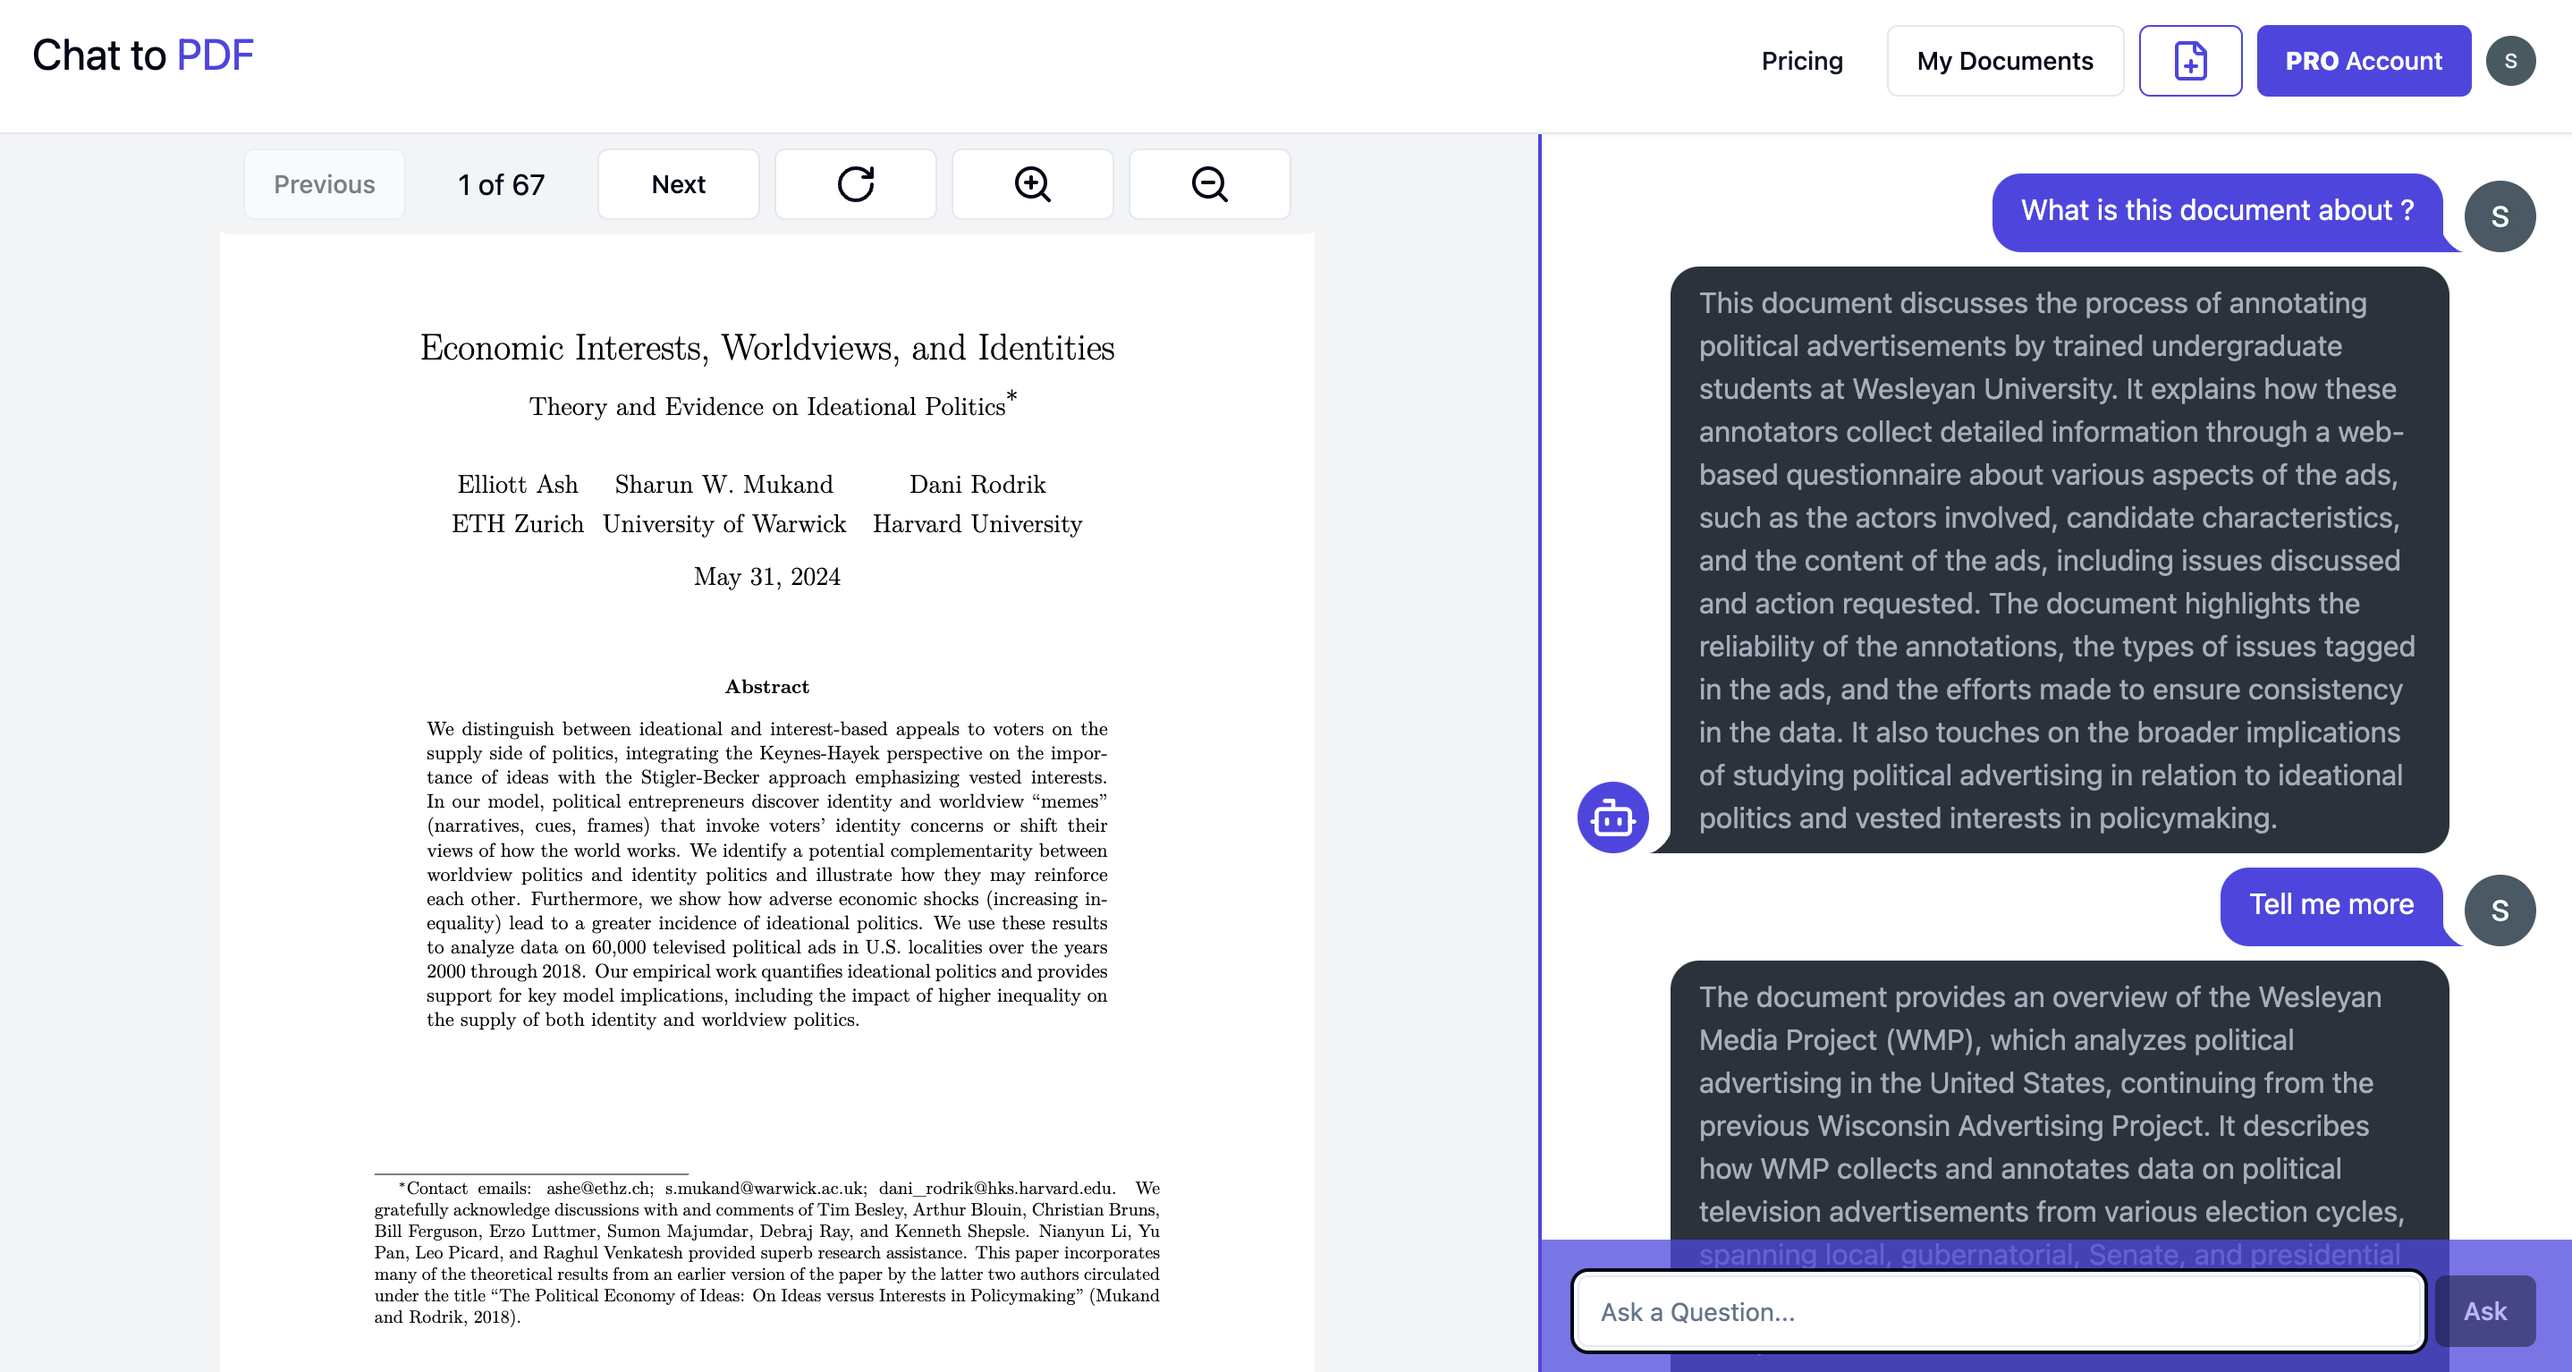
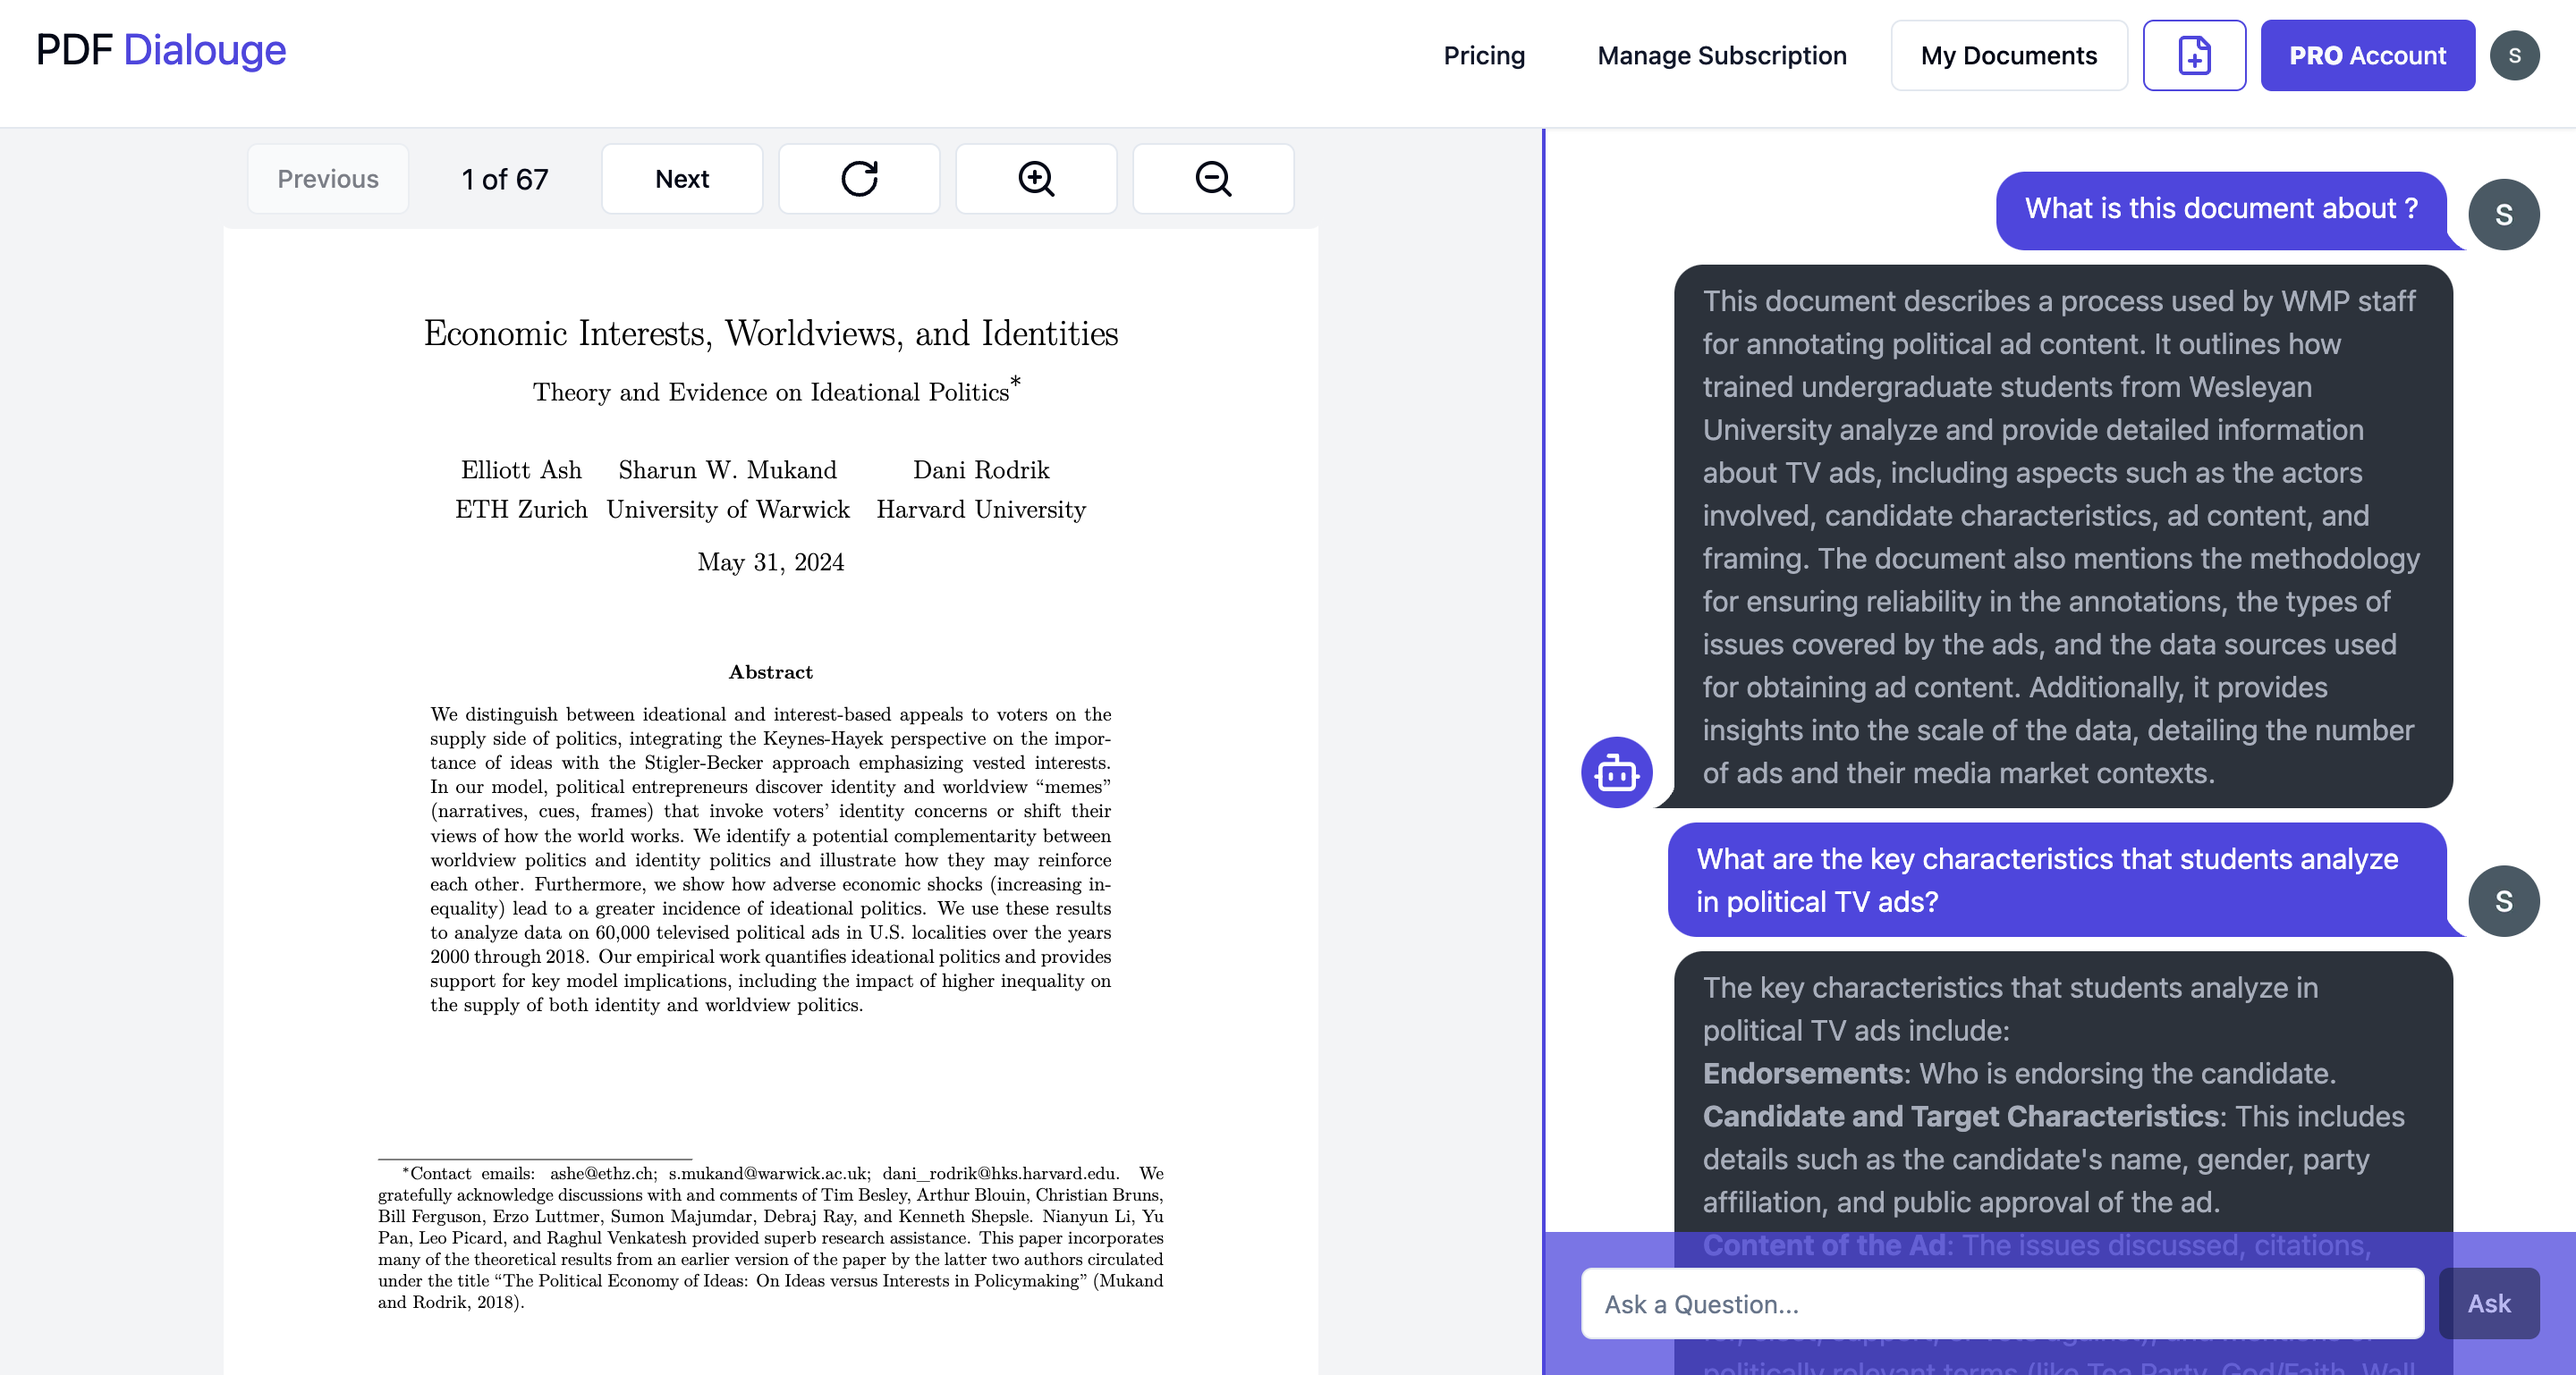
change  homescreen  image and name

diff --git a/app/page.tsx b/app/page.tsx
@@ -65,12 +65,12 @@ export default function Home() {
             </p>
             <p className="mt-6 text-lg leading-8 text-gray-800">
               Introducting
-              <span className="font-bold text-indigo-600"> Chat with PDF</span>
+              <span className="font-bold text-indigo-600"> PDF Dialogue</span>
               <br />
               <br /> Upload your document, and our chatbot will answer
               questions, summarize content, and answers all yours Qs. Ideal for
               everyone,
-              <span className="text-indigo-600">Chat with PDF</span> turns
+              <span className="text-indigo-600">PDF Dialogue</span> turns
               documents into{" "}
               <span className="font-bold">dynamic conversations</span>,
               enhancing productivity 10x fold effortlessly

diff --git a/components/Header.tsx b/components/Header.tsx
@@ -9,7 +9,7 @@ const Header = () => {
   return (
     <div className="flex justify-between bg-white shadow-sm p-5 border-b">
       <Link href="/dashboard" className="text-2xl">
-        Chat to <span className="text-indigo-600">PDF</span>
+        PDF <span className="text-indigo-600">Dialouge</span>
       </Link>
       <SignedIn>
         <div className="flex items-center space-x-2">

diff --git a/components/PricingTable.tsx b/components/PricingTable.tsx
@@ -71,7 +71,7 @@ const PricingTable = () => {
             </p>
             <p className="mt-6 flex items-baseline gap-x-1">
               <span className="text-4xl font-bold tracking-tight text-gray-900">
-                $4.99
+                $5.99
               </span>
               <span className="text-sm font-semibold leading-6 text-gray-600">
                 / month
